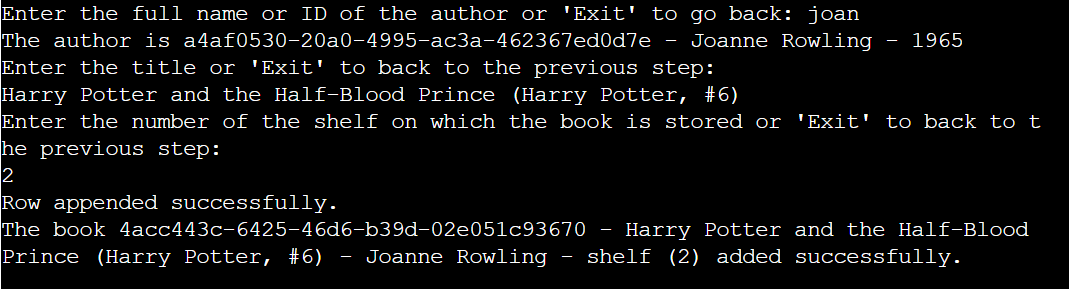
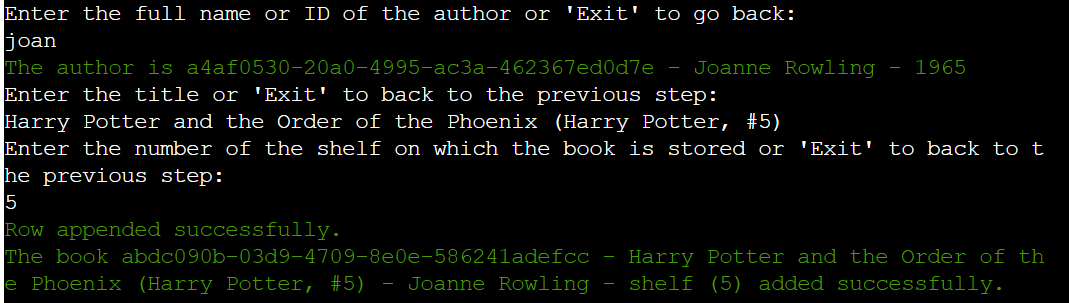
Add line break to input

Changed region(s): [[0.0, 0.0, 0.9878, 0.9654]]

diff --git a/menu.py b/menu.py
@@ -413,7 +413,7 @@ class Menu(InputMixin):
 
         while True:
             value = self.input_str(
-                "Enter the title or ID of the book or 'Exit' to go back: "
+                "Enter the title or ID of the book or 'Exit' to go back:\n"
             )
             if value is None:
                 return None, None

diff --git a/README.md b/README.md
@@ -71,7 +71,7 @@ To choose one of the options, the user has to input the number of the option and
 __The Books' Menu__
 
 The Books' menu has five options.
-![The Books' Menu](documentation/features/authors-menu.png)
+![The Books' Menu](documentation/features/books-menu.png)
 To choose one of the options, the user has to input the number of the option and press Enter.
 - 1. Get all books - displays all saved books. The data is displayed in the format "ID (book) - the title - the full name of the author - shelf(the number of the shelf on which the book is stored)"
      ![Get all books](documentation/features/get-all-books.png)
